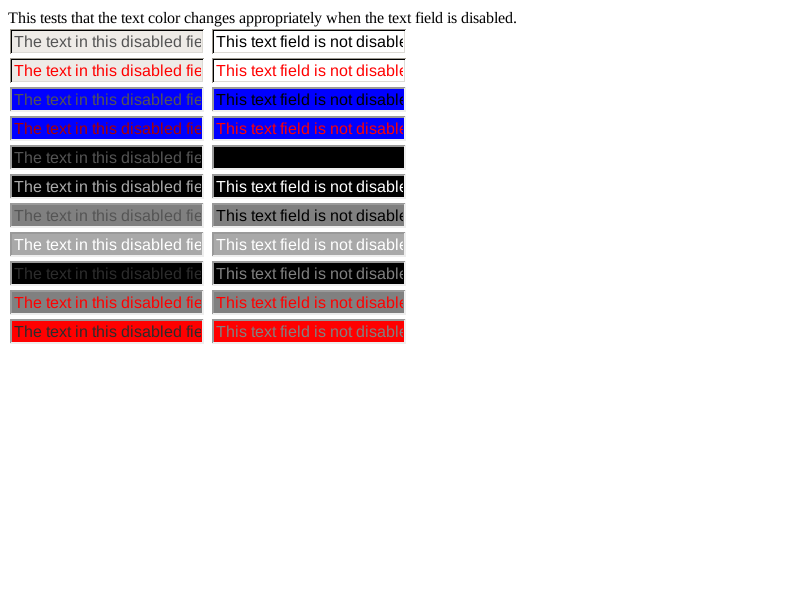
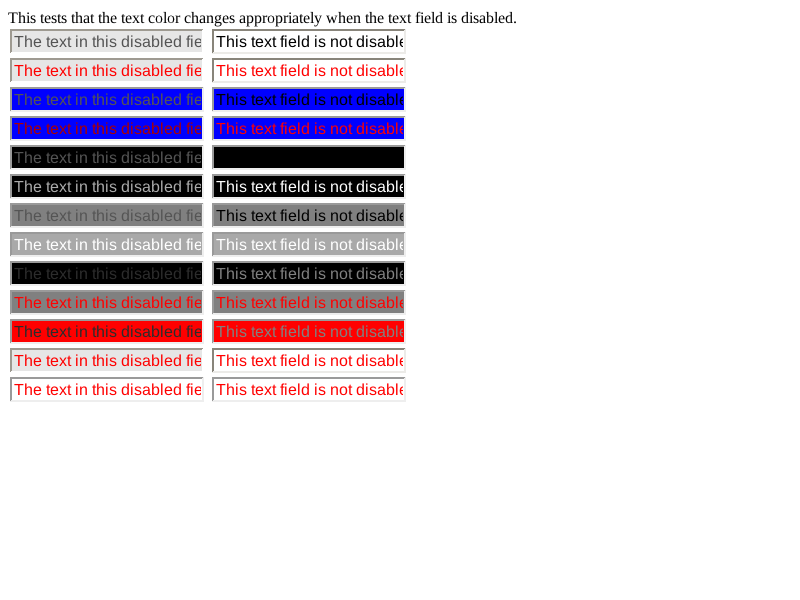
background-color affects the font color in disabled textarea. https://bugs.webkit.org/show_bug.cgi?id=65361
Patch by Vineet Chaudary <vineet.chaudhary@motorola.com> on 2011-10-07
Reviewed by Darin Adler.

Source/WebCore:

For the transparent/translucent background colors use lightening fortext color.

* rendering/RenderTextControl.cpp:
(WebCore::disabledTextColor):

LayoutTests:

For the background-color White and transparent the text color should be same.

* fast/forms/input-disabled-color.html: Modified test case.
* platform/chromium/test_expectations.txt: Needs rebaseline.
* platform/gtk/fast/forms/input-disabled-color-expected.png: Changed expected result.
* platform/gtk/fast/forms/input-disabled-color-expected.txt: Changed expected result.
* platform/mac/test_expectations.txt: Needs rebaseline.
* platform/qt/test_expectations.txt: Needs rebaseline.
* platform/win/test_expectations.txt: Needs rebaseline.

git-svn-id: https://svn.webkit.org/repository/webkit/trunk@96958 268f45cc-cd09-0410-ab3c-d52691b4dbfc

Changed region(s): [[0.0, 0.57, 0.5, 0.66]]

diff --git a/LayoutTests/fast/forms/input-disabled-color.html b/LayoutTests/fast/forms/input-disabled-color.html
@@ -23,5 +23,10 @@ This tests that the text color changes appropriately when the text field is disa
 <input type=text style="color:red; background-color:grey" value="This text field is not disabled" ><br>
 <input type=text style="color:grey; background-color:red" disabled value="The text in this disabled field should displayed as dimmed or grey" >
 <input type=text style="color:grey; background-color:red" value="This text field is not disabled" ><br>
+<input type=text style="color:red; background-color:white" disabled value="The text in this disabled field should displayed as dimmed or grey" >
+<input type=text style="color:red; background-color:white" value="This text field is not disabled" ><br>
+<input type=text style="color:red; background-color:transparent" disabled value="The text in this disabled field should displayed as dimmed or grey" >
+<input type=text style="color:red; background-color:transparent" value="This text field is not disabled" ><br>
  </body>
 </html>
+

diff --git a/Source/WebCore/rendering/RenderTextControl.cpp b/Source/WebCore/rendering/RenderTextControl.cpp
@@ -36,13 +36,15 @@ namespace WebCore {
 
 // Value chosen by observation.  This can be tweaked.
 static const int minColorContrastValue = 1300;
+// For transparent or translucent background color, use lightening.
+static const int minDisabledColorAlphaValue = 128;
 
 static Color disabledTextColor(const Color& textColor, const Color& backgroundColor)
 {
     // The explicit check for black is an optimization for the 99% case (black on white).
     // This also means that black on black will turn into grey on black when disabled.
     Color disabledColor;
-    if (textColor.rgb() == Color::black || differenceSquared(textColor, Color::white) > differenceSquared(backgroundColor, Color::white))
+    if (textColor.rgb() == Color::black || backgroundColor.alpha() < minDisabledColorAlphaValue || differenceSquared(textColor, Color::white) > differenceSquared(backgroundColor, Color::white))
         disabledColor = textColor.light();
     else
         disabledColor = textColor.dark();
